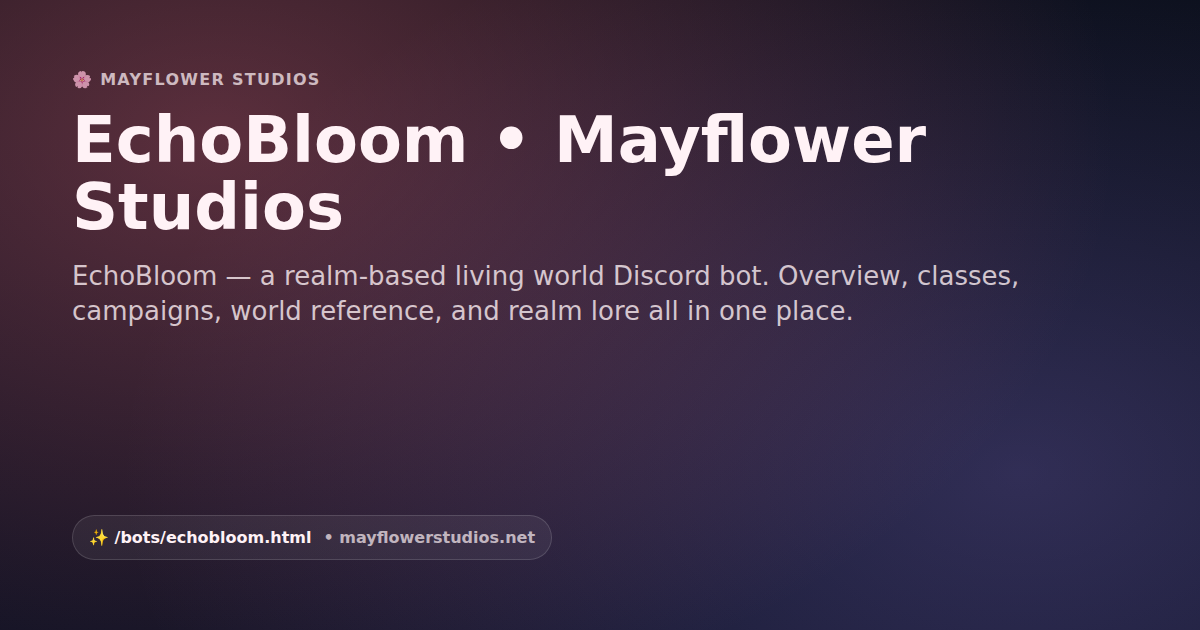
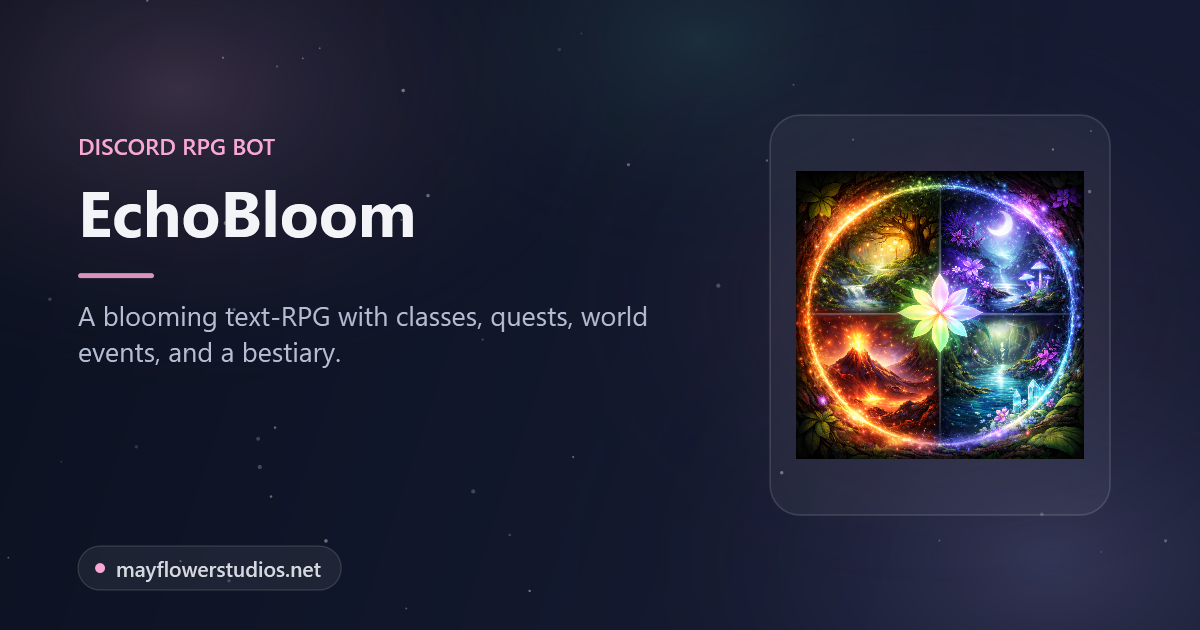
New social-preview card system: artwork-forward OG images for every page
Generated by tools/make-og-cards.ps1 (aurora style, page art or emoji panel,
per-page accents). Pages retargeted to their own cards with cache-busted URLs.

diff --git a/bots/foxbot.html b/bots/foxbot.html
@@ -12,13 +12,13 @@
   <meta property="og:url" content="https://mayflowerstudios.net/bots/foxbot.html" />
   <link rel="canonical" href="https://mayflowerstudios.net/bots/foxbot.html" />
   <meta property="og:type" content="website" />
-  <meta property="og:image" content="https://mayflowerstudios.net/assets/og/bots__foxbot.png" />
+  <meta property="og:image" content="https://mayflowerstudios.net/assets/og/bots__foxbot.png?v=2" />
   <meta property="og:image:width" content="1200" />
   <meta property="og:image:height" content="630" />
   <meta name="twitter:card" content="summary_large_image" />
   <meta name="twitter:title" content="FoxBot • Mayflower Studios" />
   <meta name="twitter:description" content="FoxBot is Kiko — the cozy fennec fox AI for Luna's Magical Forest. Birthdays, moderation, lore, reaction roles, weather, reminders, and more." />
-  <meta name="twitter:image" content="https://mayflowerstudios.net/assets/og/bots__foxbot.png" />
+  <meta name="twitter:image" content="https://mayflowerstudios.net/assets/og/bots__foxbot.png?v=2" />
   <!-- OG:END -->
 </head>
 <body data-nav="bots">

diff --git a/projects.html b/projects.html
@@ -10,11 +10,11 @@
   <meta property="og:description" content="Mayflower Idle RPG, Minecraft Forge mods, and cozy Discord bots by Mayflower Studios." />
   <meta property="og:type" content="website" />
   <meta property="og:url" content="https://mayflowerstudios.net/projects.html" />
-  <meta property="og:image" content="https://mayflowerstudios.net/assets/og/home.png" />
+  <meta property="og:image" content="https://mayflowerstudios.net/assets/og/projects.png?v=2" />
   <meta name="twitter:card" content="summary_large_image" />
   <meta name="twitter:title" content="Projects • Mayflower Studios" />
   <meta name="twitter:description" content="Mayflower Idle RPG, Minecraft Forge mods, and cozy Discord bots by Mayflower Studios." />
-  <meta name="twitter:image" content="https://mayflowerstudios.net/assets/og/home.png" />
+  <meta name="twitter:image" content="https://mayflowerstudios.net/assets/og/projects.png?v=2" />
   <link rel="canonical" href="https://mayflowerstudios.net/projects.html" />
   <style>
     /* page-specific helpers on top of style.css (grid2/projCard live in style.css) */

diff --git a/bots/bloombot.html b/bots/bloombot.html
@@ -12,13 +12,13 @@
   <meta property="og:url" content="https://mayflowerstudios.net/bots/bloombot.html" />
   <link rel="canonical" href="https://mayflowerstudios.net/bots/bloombot.html" />
   <meta property="og:type" content="website" />
-  <meta property="og:image" content="https://mayflowerstudios.net/assets/og/bots__bloombot.png" />
+  <meta property="og:image" content="https://mayflowerstudios.net/assets/og/bots__bloombot.png?v=2" />
   <meta property="og:image:width" content="1200" />
   <meta property="og:image:height" content="630" />
   <meta name="twitter:card" content="summary_large_image" />
   <meta name="twitter:title" content="BloomBot • Mayflower Studios" />
   <meta name="twitter:description" content="BloomBot powers the EchoBloom community — quests, events, and world management for Discord." />
-  <meta name="twitter:image" content="https://mayflowerstudios.net/assets/og/bots__bloombot.png" />
+  <meta name="twitter:image" content="https://mayflowerstudios.net/assets/og/bots__bloombot.png?v=2" />
   <!-- OG:END -->
 </head>
 <body data-nav="bots">

diff --git a/404.html b/404.html
@@ -13,13 +13,13 @@
 <meta property="og:description" content="Page not found — but the grove is still here. Head back to Mayflower Studios." />
 <meta property="og:url" content="https://mayflowerstudios.net/404.html" />
 <meta property="og:type" content="website" />
-<meta property="og:image" content="https://mayflowerstudios.net/assets/og/404.png" />
+<meta property="og:image" content="https://mayflowerstudios.net/assets/og/404.png?v=2" />
 <meta property="og:image:width" content="1200" />
 <meta property="og:image:height" content="630" />
 <meta name="twitter:card" content="summary_large_image" />
 <meta name="twitter:title" content="Lost in the Grove • Mayflower Studios" />
 <meta name="twitter:description" content="Page not found — but the grove is still here. Head back to Mayflower Studios." />
-<meta name="twitter:image" content="https://mayflowerstudios.net/assets/og/404.png" />
+<meta name="twitter:image" content="https://mayflowerstudios.net/assets/og/404.png?v=2" />
 <!-- OG:END -->
 </head>
 

diff --git a/watch-together.html b/watch-together.html
@@ -435,13 +435,13 @@
 <meta property="og:url" content="https://mayflowerstudios.net/watch-together.html" />
 <meta name="robots" content="noindex, follow" />
   <meta property="og:type" content="website" />
-<meta property="og:image" content="https://mayflowerstudios.net/assets/og/watch-together.png" />
+<meta property="og:image" content="https://mayflowerstudios.net/assets/og/watch-together.png?v=2" />
 <meta property="og:image:width" content="1200" />
 <meta property="og:image:height" content="630" />
 <meta name="twitter:card" content="summary_large_image" />
 <meta name="twitter:title" content="Watch Together — Mayflower Studios" />
 <meta name="twitter:description" content="A cozy private space to watch YouTube and videos together, perfectly in sync." />
-<meta name="twitter:image" content="https://mayflowerstudios.net/assets/og/watch-together.png" />
+<meta name="twitter:image" content="https://mayflowerstudios.net/assets/og/watch-together.png?v=2" />
 <!-- OG:END -->
 </head>
 

diff --git a/together-room.html b/together-room.html
@@ -362,13 +362,13 @@
 <meta property="og:url" content="https://mayflowerstudios.net/together.html" />
 <meta name="robots" content="noindex, follow" />
   <meta property="og:type" content="website" />
-<meta property="og:image" content="https://mayflowerstudios.net/assets/og/together.png" />
+<meta property="og:image" content="https://mayflowerstudios.net/assets/og/together.png?v=2" />
 <meta property="og:image:width" content="1200" />
 <meta property="og:image:height" content="630" />
 <meta name="twitter:card" content="summary_large_image" />
 <meta name="twitter:title" content="Together — Mayflower Studios" />
 <meta name="twitter:description" content="Cozy mods, bots, and worlds built with heart — designed for long-term communities." />
-<meta name="twitter:image" content="https://mayflowerstudios.net/assets/og/together.png" />
+<meta name="twitter:image" content="https://mayflowerstudios.net/assets/og/together.png?v=2" />
 <!-- OG:END -->
 </head>
 

diff --git a/bots/echobloom.html b/bots/echobloom.html
@@ -11,12 +11,12 @@
   <meta property="og:url" content="https://mayflowerstudios.net/echobloom.html" />
   <link rel="canonical" href="https://mayflowerstudios.net/bots/echobloom.html" />
   <meta property="og:type" content="website" />
-  <meta property="og:image" content="https://mayflowerstudios.net/assets/og/bots__echobloom.png" />
+  <meta property="og:image" content="https://mayflowerstudios.net/assets/og/bots__echobloom.png?v=2" />
   <meta property="og:image:width" content="1200" />
   <meta property="og:image:height" content="630" />
   <meta name="twitter:card" content="summary_large_image" />
   <meta name="twitter:title" content="EchoBloom • Mayflower Studios" />
-  <meta name="twitter:image" content="https://mayflowerstudios.net/assets/og/bots__echobloom.png" />
+  <meta name="twitter:image" content="https://mayflowerstudios.net/assets/og/bots__echobloom.png?v=2" />
   <style>
     /* ── Hub Tabs ── */
     .hub-tabs {

diff --git a/mayflower-idle-rpg.html b/mayflower-idle-rpg.html
@@ -10,7 +10,7 @@
   <meta property="og:description" content="A fully idle fantasy chronicle with living-world generation, heirs, offline progress, JSON event mods, and story summaries when you return." />
   <meta property="og:type" content="website" />
   <meta property="og:url" content="https://mayflowerstudios.net/mayflower-idle-rpg.html" />
-  <meta property="og:image" content="https://mayflowerstudios.net/assets/og/home.png" />
+  <meta property="og:image" content="https://mayflowerstudios.net/assets/og/idle-rpg.png?v=2" />
   <meta name="twitter:card" content="summary_large_image" />
   <link rel="canonical" href="https://mayflowerstudios.net/mayflower-idle-rpg.html" />
   <link rel="icon" type="image/png" sizes="32x32" href="/assets/icons/favicon-32.png?v=3" />

diff --git a/sakari.html b/sakari.html
@@ -10,7 +10,7 @@
   <meta property="og:url"         content="https://mayflowerstudios.net/sakari.html" />
   <link rel="canonical" href="https://mayflowerstudios.net/sakari.html" />
   <meta property="og:type"        content="website" />
-  <meta property="og:image"       content="https://mayflowerstudios.net/assets/og/sakari.png" />
+  <meta property="og:image"       content="https://mayflowerstudios.net/assets/og/sakari.png?v=2" />
   <meta name="twitter:card"       content="summary_large_image" />
   <link rel="icon" type="image/png" href="/assets/icons/favicon.png?v=1" />
   <link rel="preconnect" href="https://fonts.googleapis.com" />

diff --git a/privacy.html b/privacy.html
@@ -7,7 +7,7 @@
   <link rel="canonical" href="https://mayflowerstudios.net/privacy.html" />
   <meta name="description" content="How Mayflower Studios handles your data across Watch Together, Together rooms, and Sakari stories." />
   <meta property="og:title" content="Privacy • Mayflower Studios" />
-  <meta property="og:image" content="https://mayflowerstudios.net/assets/og/privacy.png" />
+  <meta property="og:image" content="https://mayflowerstudios.net/assets/og/privacy.png?v=2" />
   <link rel="icon" type="image/png" href="/assets/icons/favicon.png?v=2" />
   <link rel="stylesheet" href="/style.css?v=33" />
   <style>

diff --git a/contact.html b/contact.html
@@ -10,7 +10,7 @@
   <meta property="og:url" content="https://mayflowerstudios.net/contact.html" />
   <link rel="canonical" href="https://mayflowerstudios.net/contact.html" />
   <meta property="og:type" content="website" />
-  <meta property="og:image" content="https://mayflowerstudios.net/assets/og/home.png" />
+  <meta property="og:image" content="https://mayflowerstudios.net/assets/og/contact.png?v=2" />
   <meta name="twitter:card" content="summary_large_image" />
   <link rel="icon" type="image/png" href="/assets/icons/favicon.png?v=2" />
   <link rel="apple-touch-icon" href="/assets/icons/favicon.png?v=2" />

diff --git a/companion.html b/companion.html
@@ -11,7 +11,7 @@
   <meta property="og:url" content="https://mayflowerstudios.net/companion.html" />
   <link rel="canonical" href="https://mayflowerstudios.net/companion.html" />
   <meta property="og:type" content="website" />
-  <meta property="og:image" content="https://mayflowerstudios.net/assets/og/together.png" />
+  <meta property="og:image" content="https://mayflowerstudios.net/assets/og/companion.png?v=2" />
   <meta name="twitter:card" content="summary_large_image" />
   <link rel="icon" type="image/png" href="/assets/icons/favicon.png?v=2" />
   <link rel="stylesheet" href="/style.css?v=33" />
